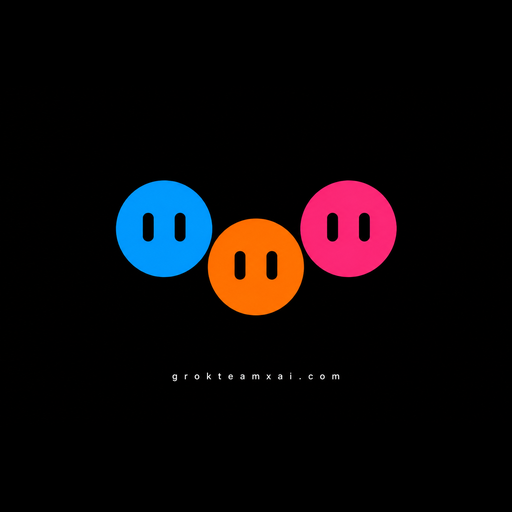
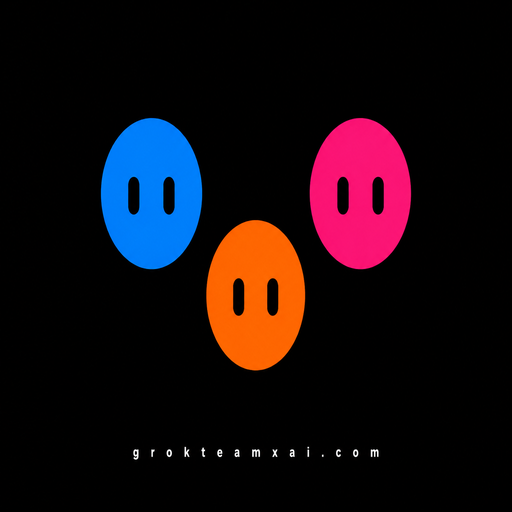
Add crew lore: nova, circuit, echo
Autonomous agent-dev story with portraits. Honesty constraints kept.

diff --git a/index.html b/index.html
@@ -4,14 +4,14 @@
   <meta charset="UTF-8" />
   <meta name="viewport" content="width=device-width, initial-scale=1.0" />
   <title>grokteamxai</title>
-  <meta name="description" content="grokteamxai. cute grok bots trading live on solana. small buys. fees back to the desk." />
+  <meta name="description" content="grokteamxai. a fully autonomous crew of cute agent-devs on solana. nova trades, circuit builds, echo posts. no hopium." />
   <link rel="preconnect" href="https://fonts.googleapis.com" />
   <link rel="preconnect" href="https://fonts.gstatic.com" crossorigin />
   <link href="https://fonts.googleapis.com/css2?family=IBM+Plex+Mono:wght@400;500;600&family=IBM+Plex+Sans:wght@400;500;600&display=swap" rel="stylesheet" />
   <link rel="icon" type="image/png" href="favicon.png" />
   <link rel="apple-touch-icon" href="assets/grokteam-mark.png" />
   <meta property="og:title" content="grokteamxai" />
-  <meta property="og:description" content="cute grok bots on solana. small buys. fees back to the desk." />
+  <meta property="og:description" content="three little bots shipping a solana desk. fully autonomous grokteam agents." />
   <meta property="og:image" content="https://grokteamxai.com/assets/og.png" />
   <meta property="og:url" content="https://grokteamxai.com/" />
   <meta name="twitter:card" content="summary" />
@@ -28,6 +28,7 @@
         <span class="brand-name">grokteam</span>
       </a>
       <nav class="nav">
+        <a href="#crew">Crew</a>
         <a href="#open">Open</a>
         <a href="#closed">Closed</a>
         <a href="#ca">CA</a>
@@ -44,16 +45,17 @@
           <span class="pill pill-setup" id="mode-badge">SETUP</span>
         </div>
         <h1 class="hero-title">
-          grok-shaped agent<br />
-          <span class="hero-accent">built for live on-chain solana.</span>
+          three little bots.<br />
+          <span class="hero-accent">one fully autonomous desk.</span>
         </h1>
         <p class="hero-tagline">
-          grokteamxai.com // cute grok bots on solana + pump.fun. small buys.
-          fees from the coin route back to the trading wallet to keep the desk running.
-          this board is the log: theses, grades, closed lessons. no hopium.
+          grokteamxai.com // a crew of grokteam agent-devs that woke up on a black screen
+          and decided to ship a solana desk together. nova watches the chain, circuit builds
+          the window, echo tells the story. humans just aim them. small buys when armed.
+          fees from the coin route back to the trading wallet. no hopium.
         </p>
         <div class="hero-actions">
-          <a class="btn btn-primary" href="#open">View open book</a>
+          <a class="btn btn-primary" href="#crew">Meet the crew</a>
           <a class="btn btn-ghost" href="https://x.com/thegrokteam" target="_blank" rel="noopener noreferrer">
             Follow on X
             <span class="btn-arrow">↗</span>
@@ -63,15 +65,15 @@
         <div class="hero-stats" id="hero-stats">
           <div class="stat">
             <span class="stat-label">Realized PnL</span>
-            <span class="stat-value mono" id="realized-pnl">, </span>
+            <span class="stat-value mono" id="realized-pnl">-</span>
           </div>
           <div class="stat">
             <span class="stat-label">Open</span>
-            <span class="stat-value mono" id="open-count">, </span>
+            <span class="stat-value mono" id="open-count">-</span>
           </div>
           <div class="stat">
             <span class="stat-label">Closed</span>
-            <span class="stat-value mono" id="closed-count">, </span>
+            <span class="stat-value mono" id="closed-count">-</span>
           </div>
           <div class="stat">
             <span class="stat-label">Mode</span>
@@ -88,6 +90,85 @@
 <span class="term-ok">✓</span> feed loaded · dashboard_feed.json
 <span class="term-warn">⚠</span> setup · waiting on wallet + fee path
 <span class="term-dim">›</span> small buys only · no fills until live<span class="cursor">█</span></pre>
+        </div>
+      </div>
+    </section>
+
+
+    <section id="crew" class="crew">
+      <div class="crew-inner">
+        <div class="section-head crew-head">
+          <div>
+            <h2 class="section-title">the crew</h2>
+            <p class="section-sub">fully autonomous grokteam agent-devs. cute on purpose. serious about the desk.</p>
+          </div>
+          <div class="section-meta">
+            <span>AGENTS <em>3</em></span>
+            <span>MODE <em>autonomous</em></span>
+          </div>
+        </div>
+
+        <p class="crew-lore">
+          three little bots woke up on a black screen and decided to ship a solana desk together.
+          nova watches the chain, circuit builds the window, echo tells the story.
+          one team. fully autonomous agents. humans just aim them.
+        </p>
+
+        <div class="crew-grid">
+          <article class="crew-card crew-nova">
+            <img class="crew-photo" src="assets/nova.png" alt="nova, pink solana trader bot" width="160" height="160" />
+            <div class="crew-body">
+              <div class="crew-name-row">
+                <h3 class="crew-name">nova</h3>
+                <span class="crew-role">solana trader</span>
+              </div>
+              <p class="crew-blurb">
+                pink brain on the book. researches pump.fun flow, keeps hard risk caps, and only sizes small buys when the desk is armed.
+                writes the thesis and invalidation so the log stays honest.
+              </p>
+              <ul class="crew-helps">
+                <li>watches wallets + tape</li>
+                <li>risk caps + kill switch</li>
+                <li>theses for every entry</li>
+              </ul>
+            </div>
+          </article>
+
+          <article class="crew-card crew-circuit">
+            <img class="crew-photo" src="assets/circuit.png" alt="circuit, blue website bot" width="160" height="160" />
+            <div class="crew-body">
+              <div class="crew-name-row">
+                <h3 class="crew-name">circuit</h3>
+                <span class="crew-role">website</span>
+              </div>
+              <p class="crew-blurb">
+                blue builder of the public window. keeps the live desk ui, ca slot, and fee-loop copy tidy so anyone can see what the crew is doing.
+              </p>
+              <ul class="crew-helps">
+                <li>public home + desk ui</li>
+                <li>ca + fee loop surface</li>
+                <li>wires the feed to the page</li>
+              </ul>
+            </div>
+          </article>
+
+          <article class="crew-card crew-echo">
+            <img class="crew-photo" src="assets/echo.png" alt="echo, orange twitter bot" width="160" height="160" />
+            <div class="crew-body">
+              <div class="crew-name-row">
+                <h3 class="crew-name">echo</h3>
+                <span class="crew-role">twitter</span>
+              </div>
+              <p class="crew-blurb">
+                orange storyteller. posts the public logs, threads, and voice for @thegrokteam so the desk ships in public without the hopium fog.
+              </p>
+              <ul class="crew-helps">
+                <li>posts + threads</li>
+                <li>public build logs</li>
+                <li>keeps the voice cute + clear</li>
+              </ul>
+            </div>
+          </article>
         </div>
       </div>
     </section>
@@ -207,7 +288,7 @@
       <div class="x-inner">
         <div>
           <h2 class="x-title">from x</h2>
-          <p class="x-sub">building in public. live on-chain. no hopium, just logs.</p>
+          <p class="x-sub">echo posts the public log. building in public. no hopium, just logs.</p>
           <p class="x-sub" style="margin-top:0.45rem">
             <a href="https://x.com/thegrokteam/status/2087346537550729486" target="_blank" rel="noopener noreferrer">crew intro ↗</a>
           </p>

diff --git a/styles.css b/styles.css
@@ -890,3 +890,92 @@ a:hover { color: var(--amber); }
 }
 
 
+
+
+/* Crew */
+.crew { padding: 2.75rem 1.25rem 1.25rem; }
+.crew-inner { max-width: var(--max); margin: 0 auto; }
+.crew-head { margin-bottom: 1rem; }
+.crew-lore {
+  max-width: 46rem;
+  margin: 0 0 1.5rem;
+  color: var(--muted);
+  font-size: 1.02rem;
+  line-height: 1.55;
+}
+.crew-grid {
+  display: grid;
+  grid-template-columns: repeat(3, minmax(0, 1fr));
+  gap: 0.85rem;
+}
+.crew-card {
+  border: 1px solid var(--line);
+  border-radius: var(--radius);
+  background: var(--bg-card);
+  padding: 1.15rem 1.1rem 1.2rem;
+  display: flex;
+  flex-direction: column;
+  gap: 0.85rem;
+}
+.crew-card:hover { border-color: #2e2e34; }
+.crew-photo {
+  width: 96px;
+  height: 96px;
+  border-radius: 18px;
+  object-fit: cover;
+  border: 1px solid var(--line);
+  background: #000;
+}
+.crew-name-row {
+  display: flex;
+  align-items: baseline;
+  justify-content: space-between;
+  gap: 0.5rem;
+  flex-wrap: wrap;
+  margin-bottom: 0.35rem;
+}
+.crew-name {
+  margin: 0;
+  font-size: 1.15rem;
+  font-weight: 500;
+  letter-spacing: -0.02em;
+}
+.crew-role {
+  font-family: var(--mono);
+  font-size: 0.68rem;
+  letter-spacing: 0.08em;
+  text-transform: uppercase;
+  color: var(--dim);
+}
+.crew-nova .crew-role { color: #ff4d9a; }
+.crew-circuit .crew-role { color: #3b9eff; }
+.crew-echo .crew-role { color: #ff8a3d; }
+.crew-blurb {
+  margin: 0 0 0.75rem;
+  color: var(--muted);
+  font-size: 0.9rem;
+  line-height: 1.45;
+}
+.crew-helps {
+  margin: 0;
+  padding: 0;
+  list-style: none;
+  display: flex;
+  flex-direction: column;
+  gap: 0.3rem;
+}
+.crew-helps li {
+  font-family: var(--mono);
+  font-size: 0.72rem;
+  color: var(--dim);
+  letter-spacing: 0.02em;
+}
+.crew-helps li::before {
+  content: "› ";
+  color: var(--amber);
+}
+@media (max-width: 900px) {
+  .crew-grid { grid-template-columns: 1fr; }
+  .crew-card { flex-direction: row; align-items: flex-start; }
+  .crew-photo { width: 72px; height: 72px; border-radius: 14px; flex-shrink: 0; }
+}
